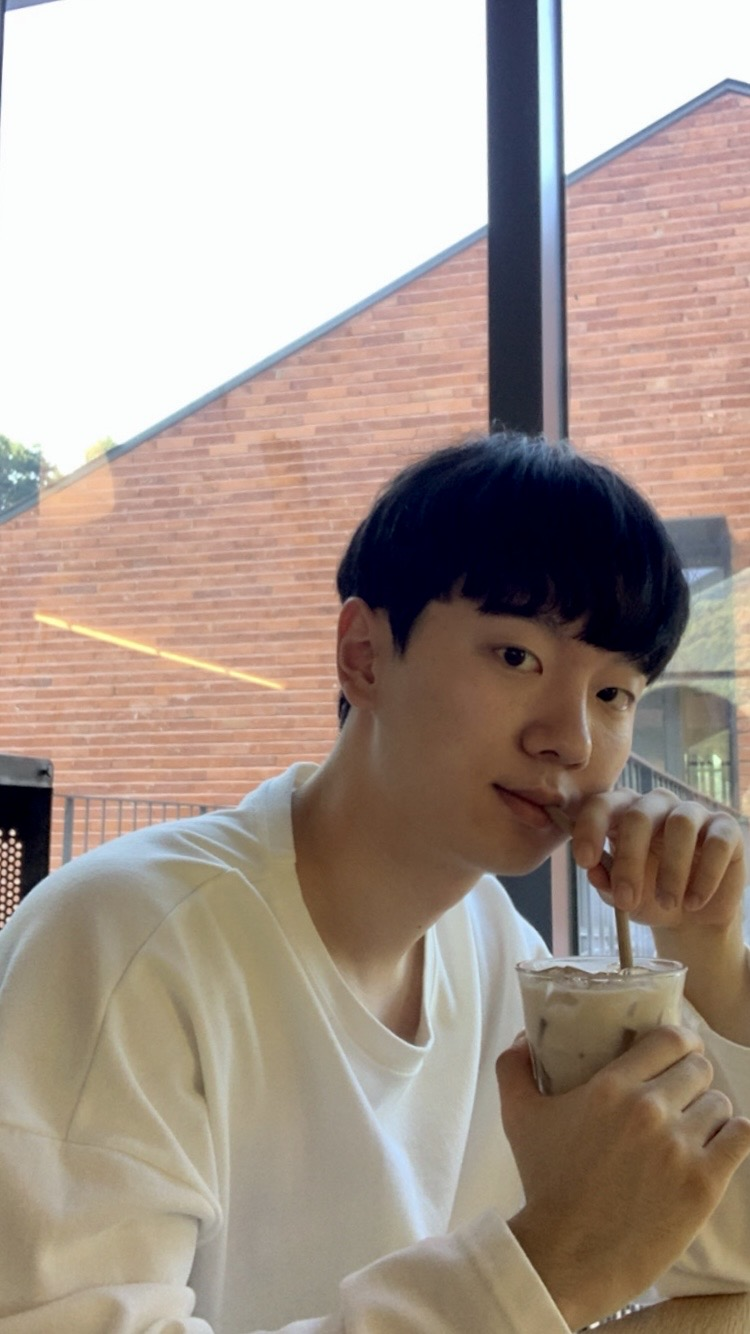
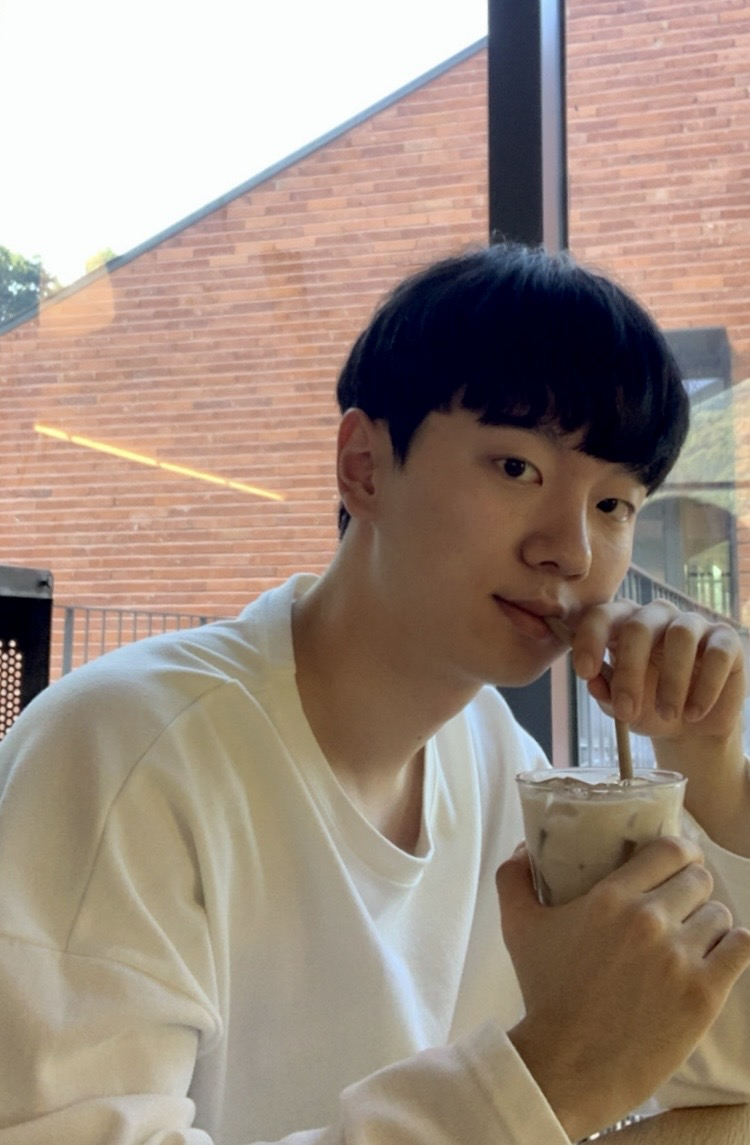
update profile

diff --git a/_includes/publications.html b/_includes/publications.html
@@ -5,11 +5,11 @@
     {% if page.title == "Home" %}
       {% for item in site.data.publications.featured %}
         <div class="publication-item mb-5">
-          <div class="row">
-            <div class="col-md-4 mb-3">
-              <img src="{{ site.github.url }}{{ item.image }}" alt="{{ item.title }}" style="width: 100%; max-width: 300px; height: auto; border-radius: 8px;">
+          <div class="d-flex flex-column flex-md-row" style="gap: 40px;">
+            <div style="flex-shrink: 0;">
+              <img src="{{ site.github.url }}{{ item.image }}" alt="{{ item.title }}" style="width: 100%; max-width: 300px; height: auto; max-height: 250px; object-fit: cover; border-radius: 8px;">
             </div>
-            <div class="col-md-8">
+            <div style="flex-grow: 1;">
               <h5><a href="{{ item.url }}">{{ item.title }}</a></h5>
               <p class="text-muted">{{ item.authors }}</p>
               <p><em>{{ item.venue }}</em></p>
@@ -21,11 +21,11 @@
     {% else %}
       {% for item in site.data.publications.index %}
         <div class="publication-item mb-5">
-          <div class="row">
-            <div class="col-md-4 mb-3">
-              <img src="{{ site.github.url }}{{ item.image }}" alt="{{ item.title }}" style="width: 100%; max-width: 300px; height: auto; border-radius: 8px;">
+          <div class="d-flex flex-column flex-md-row" style="gap: 40px;">
+            <div style="flex-shrink: 0;">
+              <img src="{{ site.github.url }}{{ item.image }}" alt="{{ item.title }}" style="width: 100%; max-width: 300px; height: auto; max-height: 250px; object-fit: cover; border-radius: 8px;">
             </div>
-            <div class="col-md-8">
+            <div style="flex-grow: 1;">
               <h5><a href="{{ item.url }}">{{ item.title }}</a></h5>
               <p class="text-muted">{{ item.authors }}</p>
               <p><em>{{ item.venue }}</em></p>

diff --git a/_includes/footer.html b/_includes/footer.html
@@ -1,12 +1,10 @@
 <footer class="pt-5 my-5 text-muted border-top">
-  <div class="row">
-    <div class="col-md-6">
-      <p class="small">Powered by <a href="https://jekyllrb.com/" target="_blank">Jekyll</a> using the <a href="https://github.com/LeNPaul/academic" target="_blank">Academic</a> theme.</p>
-    </div>
-    <div class="col-md-6 text-end social-media-icons">
+  <div class="text-center">
+    <div class="social-media-icons mb-3">
       {% for item in site.data.settings.social %}
-        <a href="{{ item.link }}" class="ms-3 fs-5"><i class="fab fa-{{ item.icon }}"></i></a>
+        <a href="{{ item.link }}" class="mx-3 fs-5"><i class="fab fa-{{ item.icon }}"></i></a>
       {% endfor %}
     </div>
+    <p class="small">Powered by <a href="https://jekyllrb.com/" target="_blank">Jekyll</a> using the <a href="https://github.com/LeNPaul/academic" target="_blank">Academic</a> theme.</p>
   </div>
 </footer>

diff --git a/_layouts/home.html b/_layouts/home.html
@@ -3,13 +3,13 @@ layout: default
 ---
 
 <div style="max-width: 1200px; margin: 0 auto; padding: 0 20px;">
-  <div class="d-flex flex-column flex-md-row mb-5" style="gap: 30px;">
+  <div class="d-flex flex-column flex-md-row mb-5" style="gap: 40px;">
     <div style="flex-shrink: 0;">
-      <img src="{{ site.github.url }}/assets/img/profile.jpeg" alt="Home" style="width: 100%; max-width: 300px; height: auto; max-height: 450px; object-fit: cover;">
+      <img src="{{ site.github.url }}/assets/img/profile.jpeg" alt="Home" style="width: 100%; max-width: 300px; height: auto; max-height: 350px; object-fit: cover;">
     </div>
     <div class="d-flex flex-column" style="flex-grow: 1;">
       {{ content }}
-      <div class="mt-auto">
+      <div class="mt-auto text-end">
         <a href="{{ site.github.url }}/assets/cv.pdf" class="btn btn-outline-primary" download>Download CV</a>
       </div>
     </div>

diff --git a/projects.md b/projects.md
@@ -11,11 +11,11 @@ title: "Projects"
       <div class="text-muted" style="font-size: 0.9rem;">SKKU</div>
     </div>
   </div>
-  <div class="row">
-    <div class="col-md-4 mb-3">
-      <img src="{{ site.github.url }}/assets/img/NotiSKKU.png" alt="NotiSKKU" style="width: 100%; max-width: 300px; height: auto; border-radius: 8px;">
+  <div class="d-flex flex-column flex-md-row" style="gap: 40px;">
+    <div style="flex-shrink: 0;">
+      <img src="{{ site.github.url }}/assets/img/NotiSKKU.png" alt="NotiSKKU" style="width: 100%; max-width: 300px; height: auto; max-height: 250px; object-fit: cover; border-radius: 8px;">
     </div>
-    <div class="col-md-8">
+    <div style="flex-grow: 1;">
       <p><strong>Role:</strong> Team Leader</p>
       <p>Description of NotiSKKU project goes here.</p>
       <p><strong>Technologies:</strong> [Add technologies used]</p>
@@ -34,11 +34,11 @@ title: "Projects"
       <div class="text-muted" style="font-size: 0.9rem;">[Organization]</div>
     </div>
   </div>
-  <div class="row">
-    <div class="col-md-4 mb-3">
-      <img src="{{ site.github.url }}/assets/img/project2.jpg" alt="Project 2" style="width: 100%; max-width: 300px; height: auto; border-radius: 8px;">
+  <div class="d-flex flex-column flex-md-row" style="gap: 40px;">
+    <div style="flex-shrink: 0;">
+      <img src="{{ site.github.url }}/assets/img/project2.jpg" alt="Project 2" style="width: 100%; max-width: 300px; height: auto; max-height: 250px; object-fit: cover; border-radius: 8px;">
     </div>
-    <div class="col-md-8">
+    <div style="flex-grow: 1;">
       <p>Description of your project goes here.</p>
       <p><strong>Technologies:</strong> [Add technologies used]</p>
       <p><a href="#">GitHub Link</a> | <a href="#">Demo</a></p>
@@ -56,11 +56,11 @@ title: "Projects"
       <div class="text-muted" style="font-size: 0.9rem;">[Organization]</div>
     </div>
   </div>
-  <div class="row">
-    <div class="col-md-4 mb-3">
-      <img src="{{ site.github.url }}/assets/img/project3.jpg" alt="Project 3" style="width: 100%; max-width: 300px; height: auto; border-radius: 8px;">
+  <div class="d-flex flex-column flex-md-row" style="gap: 40px;">
+    <div style="flex-shrink: 0;">
+      <img src="{{ site.github.url }}/assets/img/project3.jpg" alt="Project 3" style="width: 100%; max-width: 300px; height: auto; max-height: 250px; object-fit: cover; border-radius: 8px;">
     </div>
-    <div class="col-md-8">
+    <div style="flex-grow: 1;">
       <p>Description of your project goes here.</p>
       <p><strong>Technologies:</strong> [Add technologies used]</p>
       <p><a href="#">GitHub Link</a> | <a href="#">Demo</a></p>
